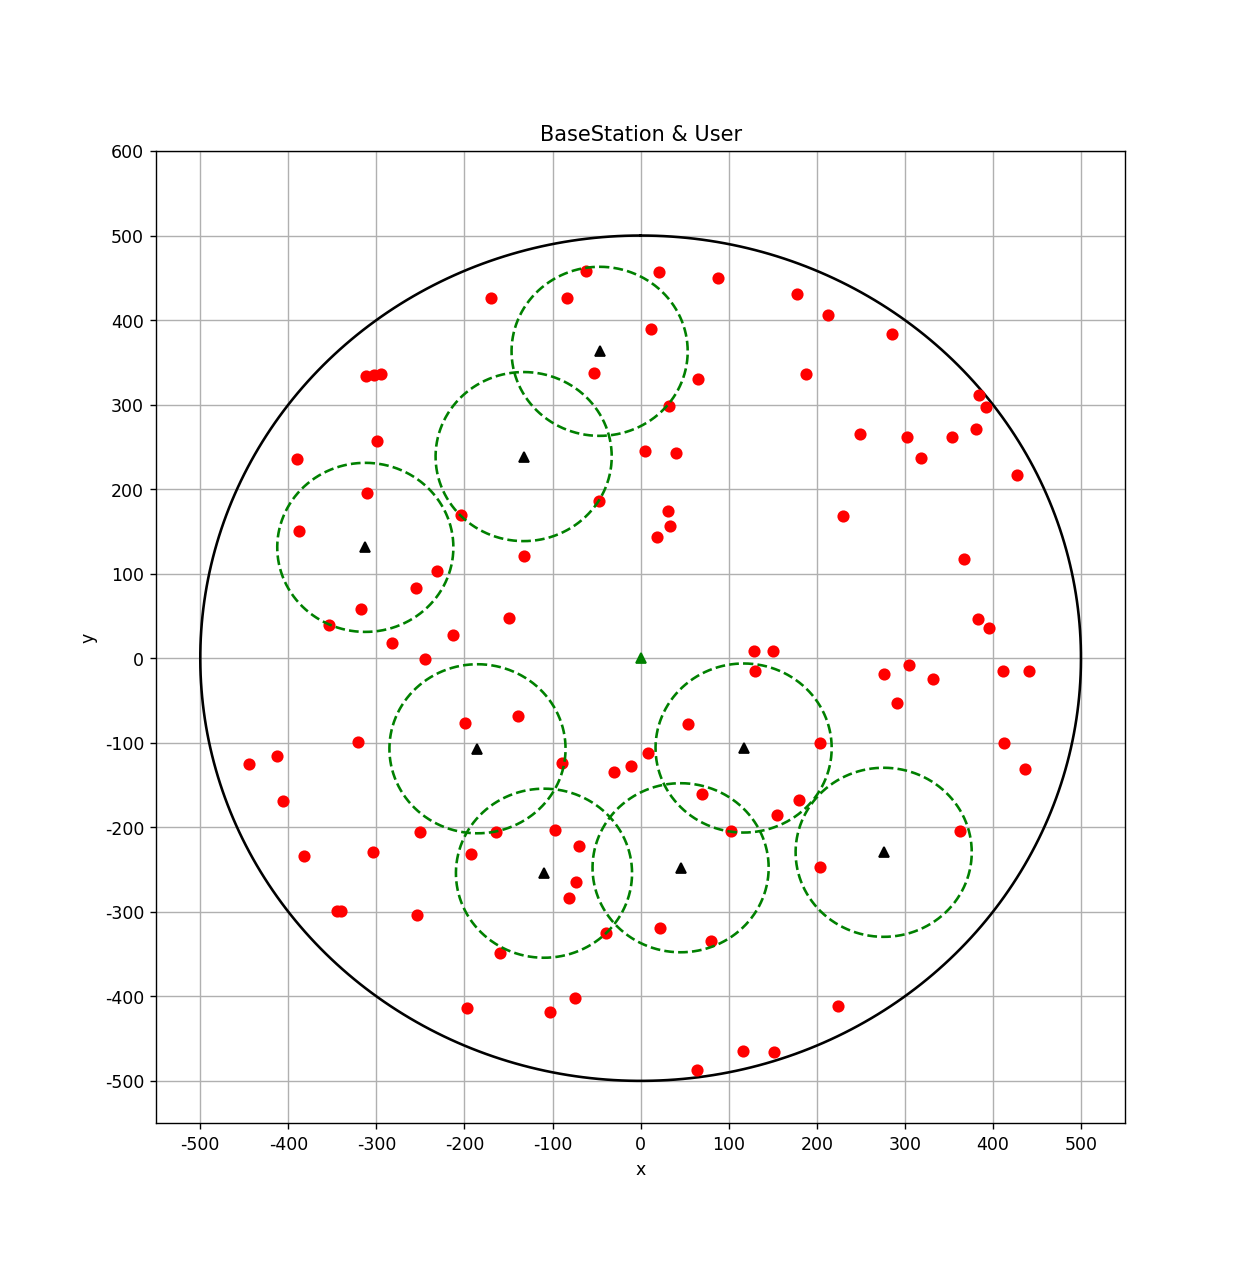
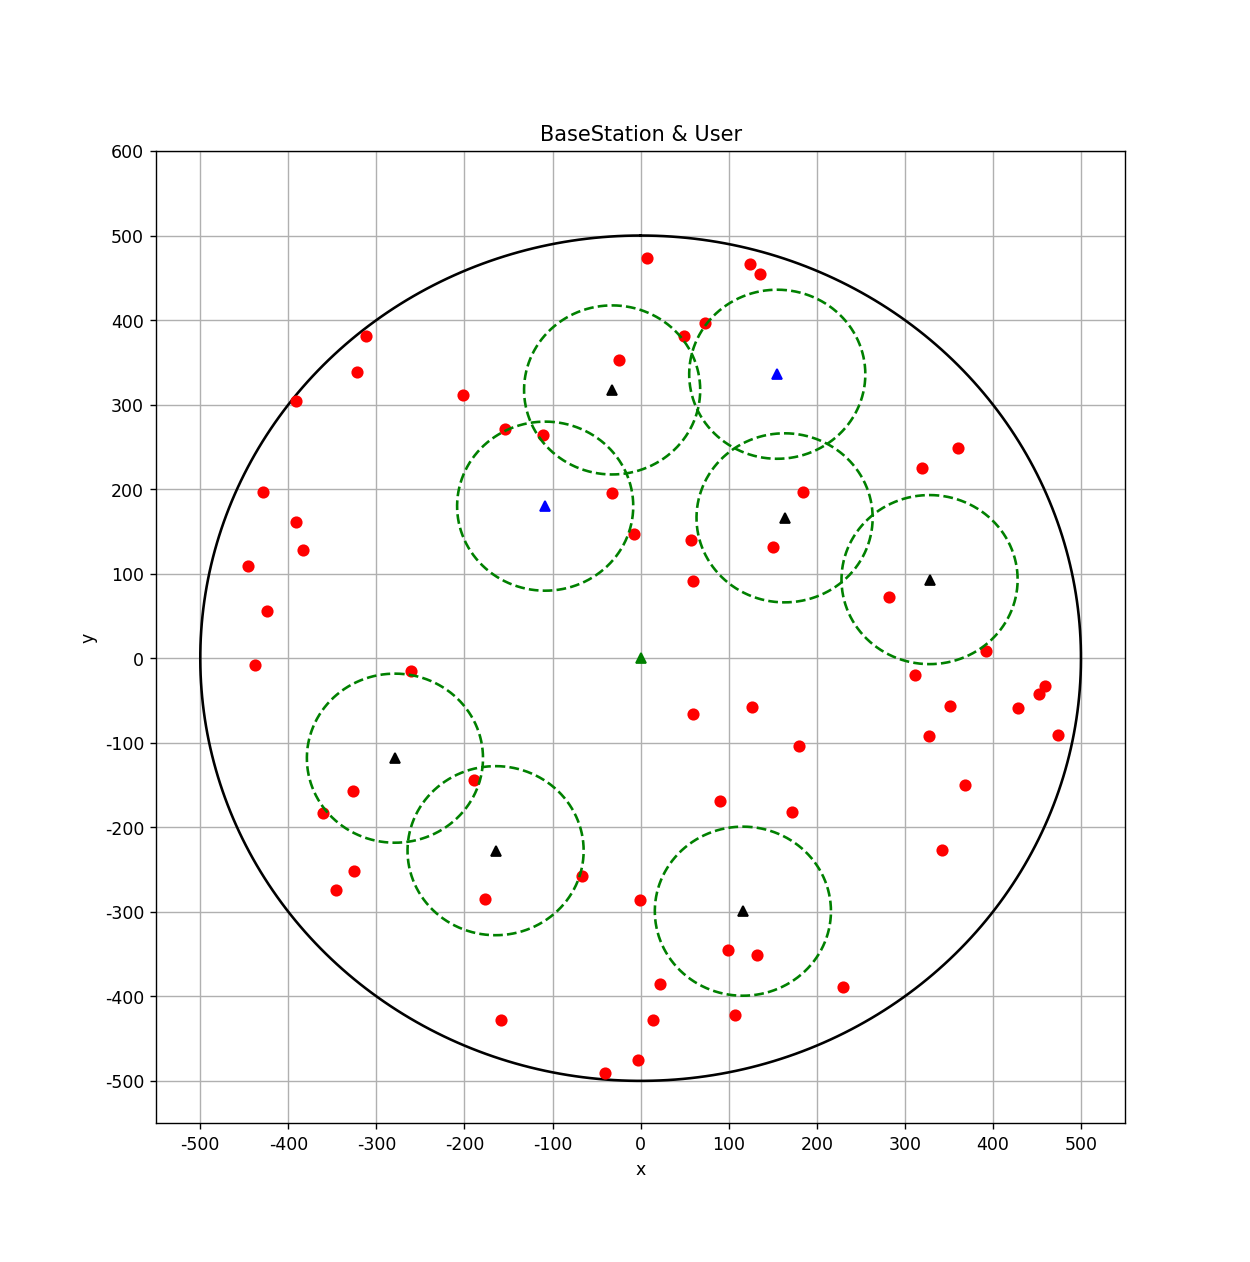
4-18
4-18

diff --git a/coverage.py b/coverage.py
@@ -5,7 +5,7 @@ from numpy import pi,sin,cos
 from SINR import distance
 from cProfile import label
 
-def DrawCircle(radius, xShift = 0, yShift = 0, color='k',labelname="PicoBS",mark="b^"):
+def DrawCircle(radius, xShift = 0, yShift = 0, color='g--'):
     '''
              画一个圆圈，半径为radius，圆心(xShifting，yShifting),圆圈的颜色color,labelname是图例中现实的名称，
     mark是圆心的显示样式,函数最终会画出指定半径和指定样式的圆心和圆圈
@@ -19,7 +19,9 @@ def DrawCircle(radius, xShift = 0, yShift = 0, color='k',labelname="PicoBS",mark
 #     plt.ylabel("y")
 #     plt.legend()
     plt.plot(x,y,color)
-    plt.plot(xShift,yShift,mark,label=labelname)##偏移量(xshift,yshift)表示圆心的位置，用绿点表示圆心
+    
+    #不在这里画圆心,否则图例显示多个相同的图例
+    #plt.plot(xShift,yShift,mark,label=labelname)##偏移量(xshift,yshift)表示圆心的位置，用绿点表示圆心
 
 def Distance_points(x,y,value):
     """
@@ -34,39 +36,66 @@ def Distance_points(x,y,value):
 #             else:print distance(x[i],y[i],x[j],y[j])
     return True
 
-def PicoCircle(range1,range2,num=8):##range1/range2表示的是生成圆的圆心所在的范围,小圆半径默认100
+def PicoCircle(range1,range2,num=6):
+    ##range1/range2表示的是生成圆的 圆心 所在的范围,小圆半径默认100,PicoBS数量默认6个
     """
     function is used to draw a little circle in the range[range1,range2]
     
     """
-    x = [0]
-    y = [0]
-    while(len(x)<num+1):
+    xp = [0]
+    yp = [0]
+    while(len(xp)<num+1):
         _t = np.random.random()*2*pi-pi
         R = np.random.randint(100,400) #半径随机整数
         _x = R*cos(_t)
         _y = R*sin(_t)
         
         if range1<=np.sqrt(_x**2+_y**2)<=range2:
-            x.append(_x)
-            y.append(_y)
-            if not Distance_points(x, y, 150):##保证pico基站之间的距离大于180
-                x.pop()
-                y.pop()
+            xp.append(_x)
+            yp.append(_y)
+            if not Distance_points(xp, yp, 150):##保证pico基站之间的距离大于150
+                xp.pop()
+                yp.pop()
 #         else:
 #             while(not(range1<=np.sqrt(_x**2+_y**2)<=range2)):
 #                 _t = np.random.random()*2*pi - pi
 #                 R = np.random.randint(100,400)
 #                 _x = R*cos(_t)
 #                 _y = R*sin(_t)
-    for i in xrange(1,len(x)):
-        DrawCircle(100, x[i], y[i], "g--", "PicoBS"+str(i), "k^")
-    return x,y    #返回生成的 x,y list 的值
-     
+#     for i in xrange(1,len(x)):
+#         DrawCircle(100, x[i], y[i], "g--", BSname+str(i), "k^")
+    return xp[1:],yp[1:]    #返回 除宏基站的坐标之外的值 生成的 x,y list 的值
 
+def Relays(xp,yp,num=2):
+    """
+            中继节点的数量默认为2个，
+    """
+    range1 = 100 #范围1
+    range2 = 400 #范围2
+#     xp,yp = PicoCircle(range1, range2)
+    xp.insert(0,0)
+    yp.insert(0,0)
+    l = len(xp)
+    while(len(xp)<l+num+1):
+        _t = np.random.random()*2*pi-pi
+        R = np.random.randint(range1,range2) #半径随机整数
+        _x = R*cos(_t)
+        _y = R*sin(_t)
+        
+        if range1<=np.sqrt(_x**2+_y**2)<=range2:
+            xp.append(_x)
+            yp.append(_y)
+            if not Distance_points(xp, yp, 150):##保证pico基站之间的距离大于150
+                xp.pop()
+                yp.pop()
+    return xp[-num:],yp[-num:]
+#     print xp,yp
+#     print xp[-num:],yp[-num:]
+    
+    
 def RandomNum(num):
     """
-            单位圆内生成  num 个随机分布在圆内的随机数
+            单位圆内生成  num 个随机分布在圆内的随机数的坐标
     """
     ##np.random.random(n)生成n个[0.0,1)之间的随机数
     ##pi*(2*r-1)范围[-pi,pi),保证x,y范围是[-1,1),这样能保证在整个圆内分布，而不是在一个圆心角度范围分布
@@ -80,22 +109,32 @@ def RandomNum(num):
         leng = np.sqrt(np.random.random()) #生成0.0-1.0之间的随机数，不能取到1.0，使得随机点出现在圆内，而不是只分布在圆圈上 
         x[i] = x[i] * leng  
         y[i] = y[i] * leng
-    return x,y
+    return x,y #返回单位圆内的随机点的坐标 list
 
-def Draw(samples_num=100,R=500): #samples_num = 100  ### 样本数量,#R = 500 ##宏基站的大圆的半径
+def Draw(samples_num=60,R=500): #samples_num = 60  ### 样本数量,#R = 500 ##宏基站的大圆的半径
     """
     given sample number,draw these sample points.
     """
     ##要想画在同一张图上，就必须在同一个figure对象之下   
     plt.figure(figsize=(10,10.1),dpi=125,facecolor="#abf2fa") ##创建图表对象 ，figsize参数指定Figure对象(图像)的宽度和高度，其单位为英寸,dpi参数指定Figure对象的分辨率，即每英寸所表示的像素数，这里使用缺省值80
-    DrawCircle(R, 0, 0, "k-", "MacroBS","g^") #"k^"表示黑色三角圆心，画一个半径500的圆心位于原点宏基站圆
+    DrawCircle(R, 0, 0, "k-") #"k^"表示黑色三角圆心，画一个半径500的圆心位于原点的黑色的宏基站圆
+    plt.plot(0,0,"g^",label = "MacroBS")##画出宏基站的圆心，图例显示为：MacroBS
     
     x,y = RandomNum(samples_num)
     plt.plot(R*x,R*y,'ro',label='Users')  ### r*图上的圆点，表示的用户分布位置,x,y分别是向量
     
-    ##生成第一个小圆
-    PicoCircle(100, 400)
-
+    ##生成Pico基站的圆心坐标
+    xp,yp = PicoCircle(100, 400)
+    
+    for i in xrange(len(xp)):
+        DrawCircle(100, xp[i], yp[i])
+    plt.plot(xp,yp,"k^",label="PicoBS")
+    #生成中继节点
+    xR,yR = Relays(xp,yp,num=2)
+    for i in xrange(len(xR)):
+        DrawCircle(100, xR[i], yR[i])
+    plt.plot(xR,yR,"b^",label="Relay")
+    
     ax=plt.gca()  
     ax.set_yticks(np.linspace(-500,600,12))  
     ax.set_yticklabels( ('-500', '-400', '-300', '-200', '-100',  '0',  '100',  '200', '300','400','500','600'))
@@ -109,9 +148,9 @@ def Draw(samples_num=100,R=500): #samples_num = 100  ### 样本数量,#R = 500 #
     plt.title("BaseStation & User")
     plt.grid(True)  #显示网格线
     plt.savefig('imag.png')  
-    plt.legend(loc="upper right",bbox_to_anchor=(1, 1),ncol=5, borderaxespad=0) ##显示图例 
+    plt.legend(loc="upper right",bbox_to_anchor=(1, 1),ncol=1, borderaxespad=0) ##显示图例 
     plt.show()  
-    return R*x,R*y
+    return R*x,R*y #返回宏基站圆的随机坐标
 
 if __name__=="__main__":
     

diff --git a/CAPalloction.py b/CAPalloction.py
@@ -30,8 +30,8 @@ def r_nks(BSid,transP,):###求信噪比函数
 
 ### MinRate表示用户的速度
 minRate = [float(format(uniform(50,120),'.1f')) for i in xrange(24)]
-##用户距离基站的位置
-userLocation = [float(format(uniform(50,120),'.1f')) for i in xrange(24)]
+# ##用户距离基站的位置
+# userLocation = [float(format(uniform(50,120),'.1f')) for i in xrange(24)]
 ##用户最大速率，即MOS(4.5)时对应的速率
 maxRate = 1500 #kbit/s
 ### 下面是初始化信息
@@ -73,11 +73,11 @@ for i in BS2:
 BStouser = []
 BS1touser =  []   
 BS2touser =  []  
-###寻找微基站BS1范围内的基站、
+###寻找微基站BS1范围内的用户
 for i in BS2:
     if i[1]<=100:
         BS1touser.append(i)
-###寻找微基站BS2范围内的基站、
+###寻找微基站BS2范围内的用户
 for i in BS3:
     if i[1]<=100:
         BS2touser.append(i)
